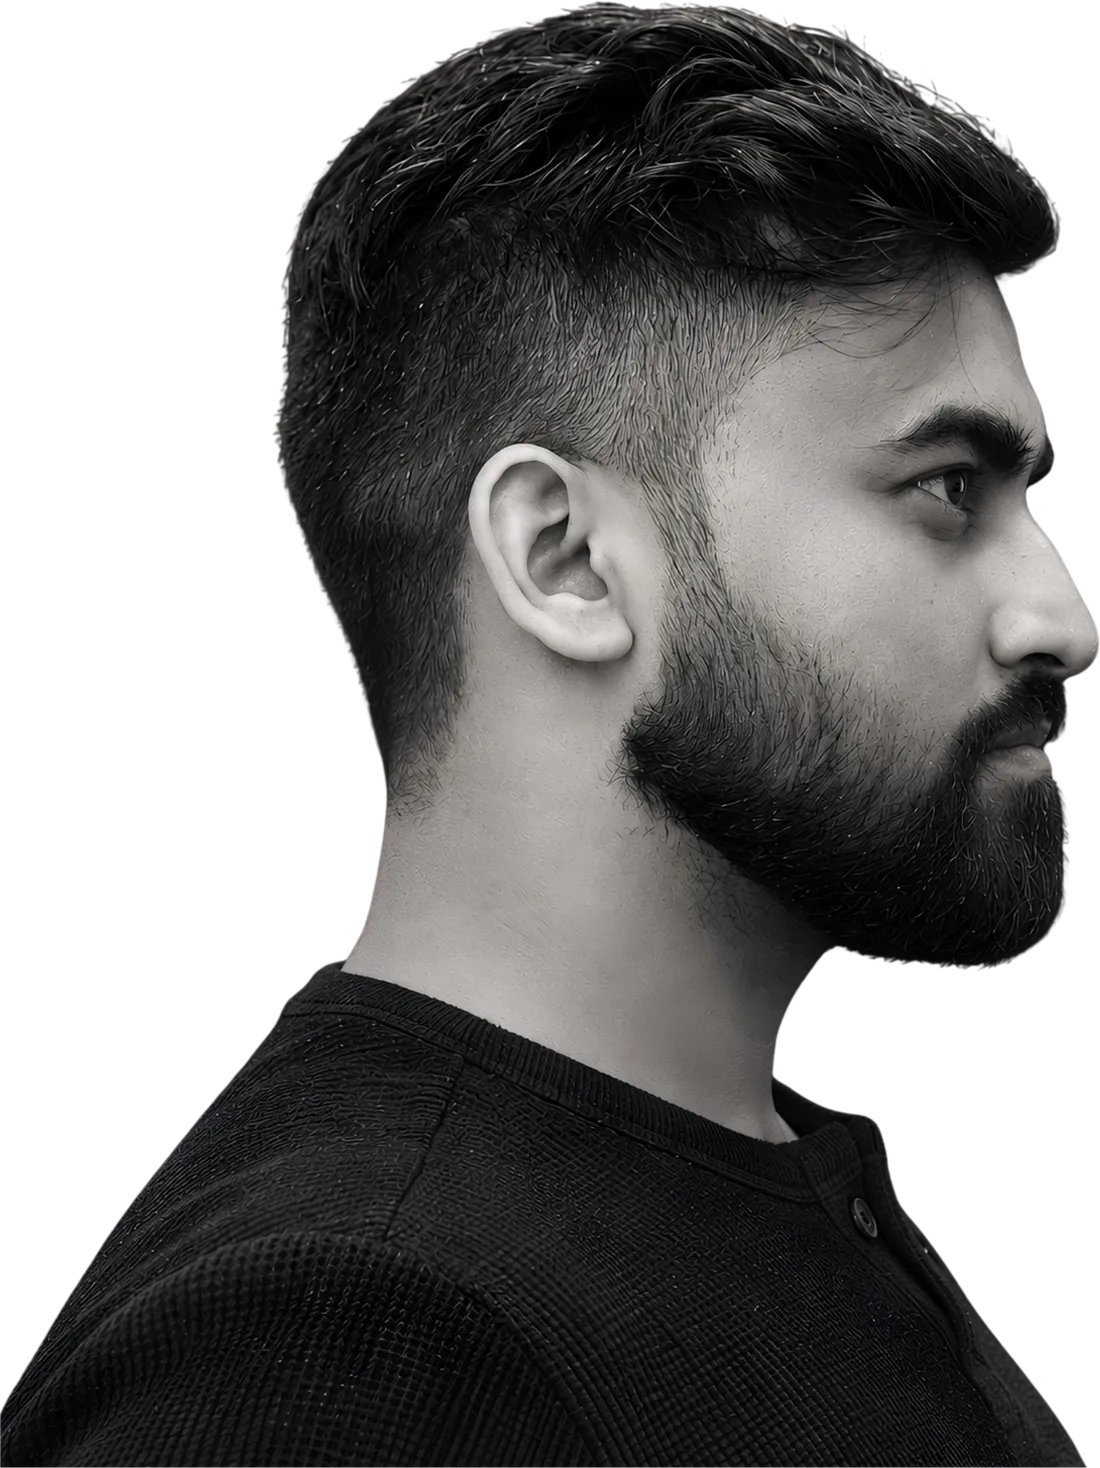
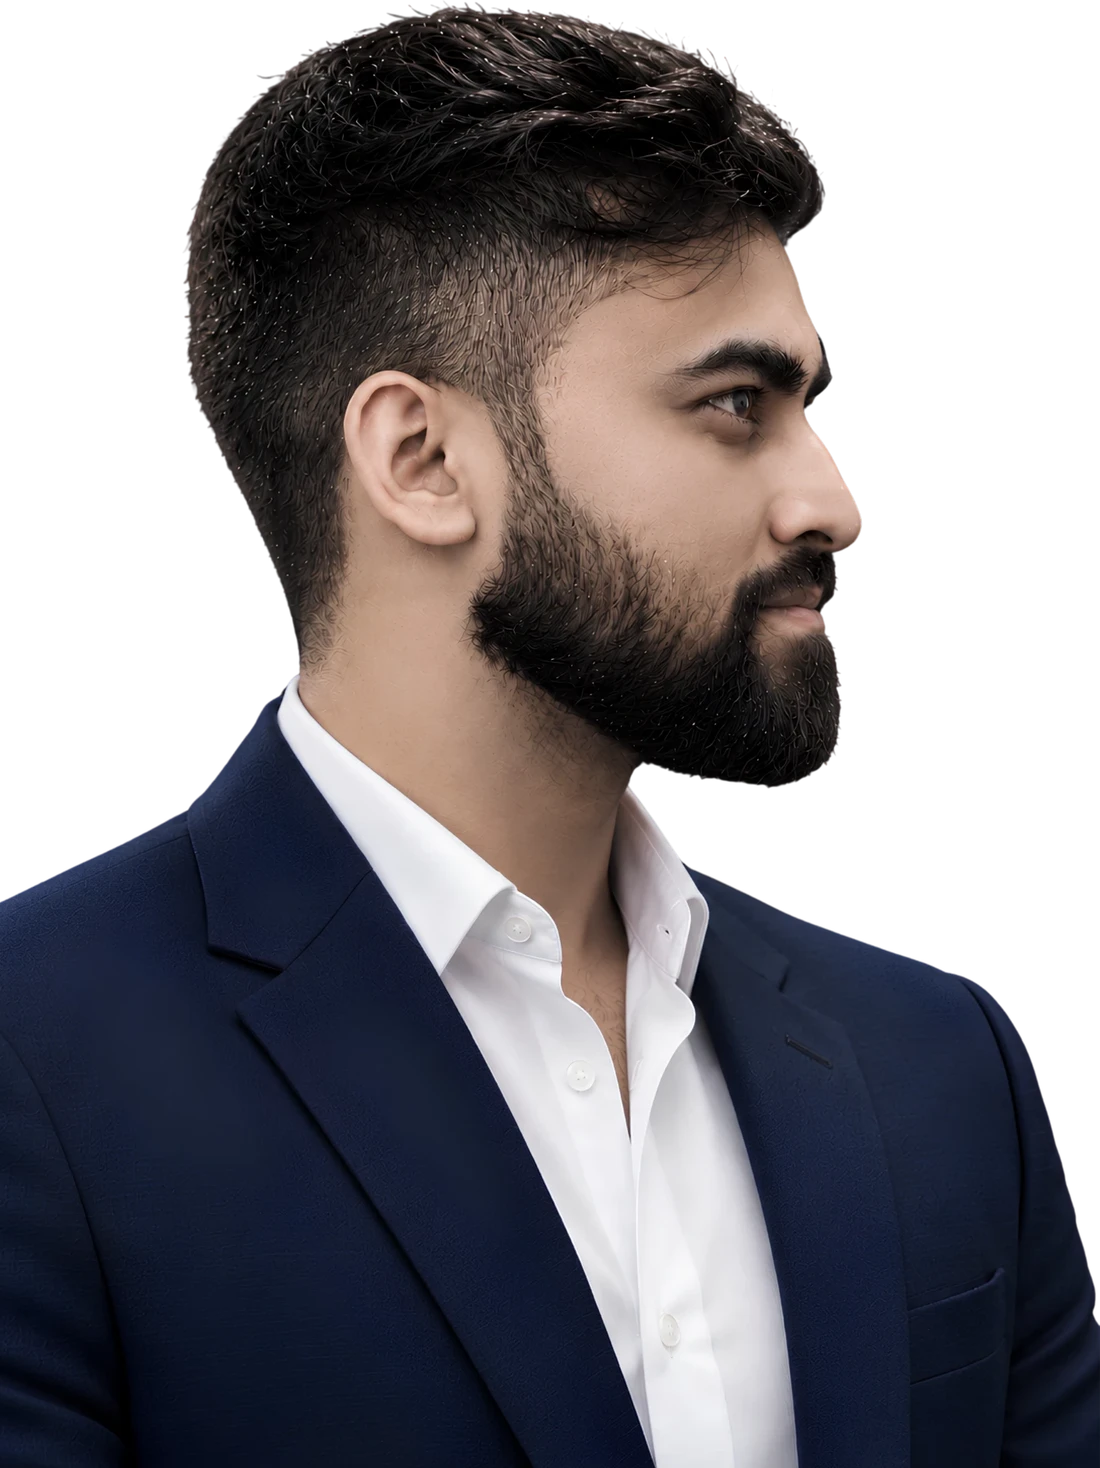
Update profile image and add portrait hover grayscale transition

diff --git a/assets/css/site.css b/assets/css/site.css
@@ -343,6 +343,11 @@ a[aria-current='true'],
   bottom: 0;
   width: 73.5%;
   max-width: none;
+  filter: grayscale(1);
+  transition: filter 0.5s var(--ease-soft, ease);
+}
+.portrait img:hover {
+  filter: grayscale(0);
 }
 
 .hero__id { display: flex; flex-direction: column; gap: 10px; }
@@ -552,7 +557,7 @@ a[aria-current='true'],
 .js .disc__body { opacity: 0; transition: opacity 1s var(--ease-soft) 0.35s; }
 .js .is-in .disc__body { opacity: 1; }
 
-.js .portrait img { opacity: 0; translate: 0 6%; transition: opacity 1.2s var(--ease-soft) 0.2s, translate 1.6s var(--ease) 0.2s; }
+.js .portrait img { opacity: 0; translate: 0 6%; transition: opacity 1.2s var(--ease-soft) 0.2s, translate 1.6s var(--ease) 0.2s, filter 0.5s var(--ease-soft); }
 .js .is-in .portrait img { opacity: 1; translate: 0 0; }
 
 .js .chrome { opacity: 0; transition: opacity 0.9s var(--ease-soft) 0.4s, padding 0.5s var(--ease), background-color 0.4s var(--ease), box-shadow 0.4s var(--ease); }
